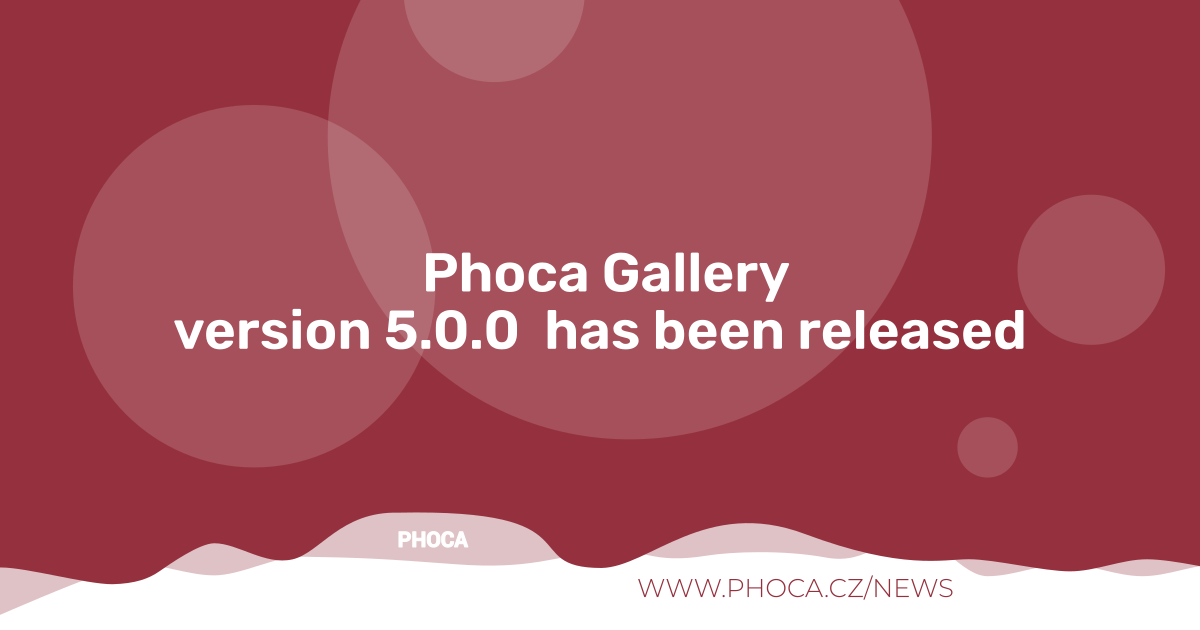
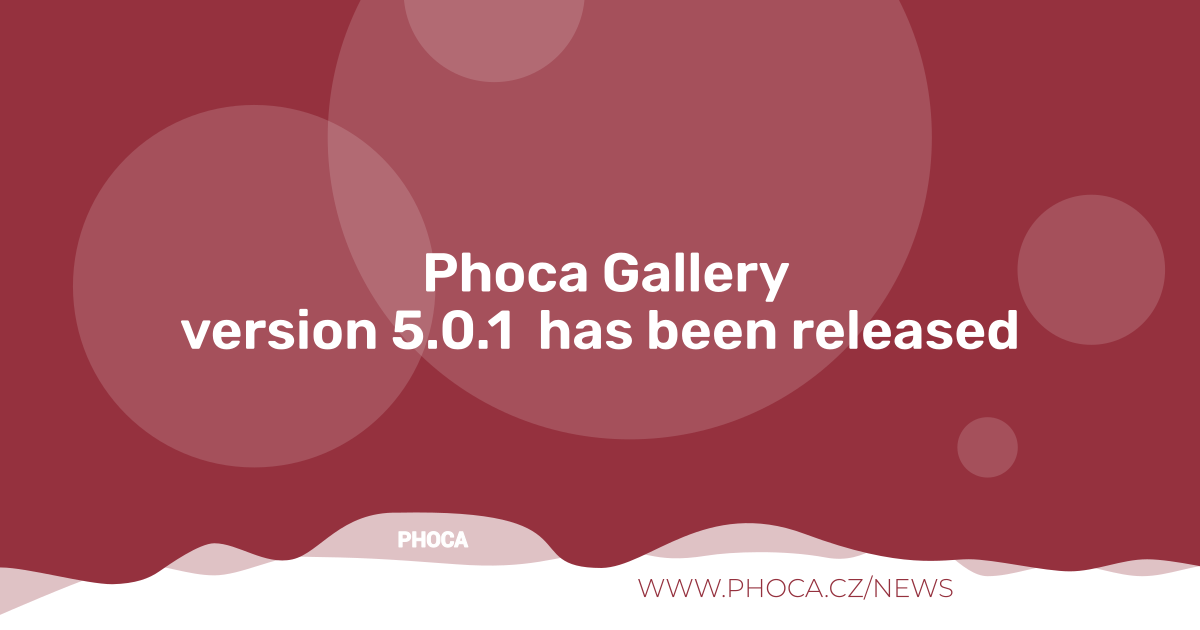
5.0.1

Changed region(s): [[0.1233, 0.4825, 0.8633, 0.573]]

diff --git a/media/js/plupload/jquery.plupload.queue/css/jquery.plupload.queue.css b/media/js/plupload/jquery.plupload.queue/css/jquery.plupload.queue.css
@@ -123,7 +123,7 @@
 }
 .plupload_file_size, .plupload_file_status, .plupload_file_action {text-align: right;}
 
-.plupload_filelist .plupload_file_name {width: 205px}
+.plupload_filelist .plupload_file_name {width: 205px; width: auto;}
 
 .plupload_file_action {
 	float: right;
@@ -167,6 +167,12 @@ li.plupload_done a {
 .plupload_progress_bar {
 	width: 0px;
 	height: 7px;
+	height: 22px;
+}
+
+.plupload_progress_bar.bar,
+.progress.plupload_file_statusbar .bar {
+	background: green;
 }
 
 .plupload_scroll .plupload_filelist_header .plupload_file_action, .plupload_scroll .plupload_filelist_footer .plupload_file_action {

diff --git a/media/css/main/theme_simple.css b/media/css/main/theme_simple.css
@@ -138,7 +138,8 @@ F8961E
     text-transform: capitalize;
 }
 
-
+#phocagallery .pg-item-box-title a,
+#phocagallery .pg-category-box-title a,
 .pg-item-box-title a,
 .pg-category-box-title a {
     text-decoration: none;

diff --git a/admin/controllers/phocagalleryc.php b/admin/controllers/phocagalleryc.php
@@ -166,6 +166,7 @@ class PhocaGalleryCpControllerPhocaGalleryc extends FormController
 		$table		= $model->getTable();
 		//$data		= JFactory::getApplication()->input->get('jform', array(), 'post', 'array');
 		$data		= $app->input->post->get('jform', array(), 'array');
+
 		$checkin	= property_exists($table, 'checked_out');
 		$context	= "$this->option.edit.$this->context";
 		$task		= $this->getTask();
@@ -235,6 +236,7 @@ class PhocaGalleryCpControllerPhocaGalleryc extends FormController
 		}
 
 		// Test if the data is valid.
+
 		$validData = $model->validate($form, $data);
 
 		// Check for validation errors.

diff --git a/site/layouts/box_image.php b/site/layouts/box_image.php
@@ -35,8 +35,7 @@ if (isset($item->videocode) && $item->videocode != '' && $item->videocode != '0'
 echo ' >';
 
 echo '<div class="pg-item-box-image">';
-echo HTMLHelper::_( 'image', isset($item->extid) & (int)$item->extid> 0 ? $item->extm : $item->linkthumbnailpath, $item->oimgalt, array( 'class' => 'pg-image c-Image c-Image--shaded', 'itemprop' => "thumbnail"));
-
+echo HTMLHelper::_( 'image', isset($item->extid) & $item->extid !=  '' ? $item->extm : $item->linkthumbnailpath, $item->oimgalt, array( 'class' => 'pg-image c-Image c-Image--shaded', 'itemprop' => "thumbnail"));
 
 echo '</div>';
 

diff --git a/admin/models/fields/phocaselectfilename.php b/admin/models/fields/phocaselectfilename.php
@@ -40,7 +40,7 @@ class JFormFieldPhocaSelectFilename extends FormField
 		if ($extId > 0) {
 			$readonly	= ' readonly="readonly"';
 			$attr		= '';
-			return '<input type="text" name="'.$this->name.'" id="'.$this->id.'" value="-" '.$attr.$readonly.' />';
+			return '<input type="text" name="'.$this->name.'" id="'.$this->id.'" value="-" '.$attr.$readonly.' class="form-control" />';
 		}
 
 

diff --git a/admin/libraries/phocagallery/youtube/youtube.php b/admin/libraries/phocagallery/youtube/youtube.php
@@ -59,11 +59,8 @@ class PhocaGalleryYoutube
 			$o .= '<iframe src="//www.youtube.com/embed/'.$code.'" frameborder="0" allowfullscreen></iframe>';
 		}
 
-		if ($o != '') {
-			return $o;
-		}
+		return $o;
 
-		return $videoCode;
 	}
 
 	public static function getCode($url) {

diff --git a/README.MD b/README.MD
@@ -150,7 +150,7 @@ Phoca Gallery is an efficient image gallery extension for Joomla! CMS.
 
 ## Version (Joomla! 5.x)
 
-5.0.0
+5.0.1
 
 
 
